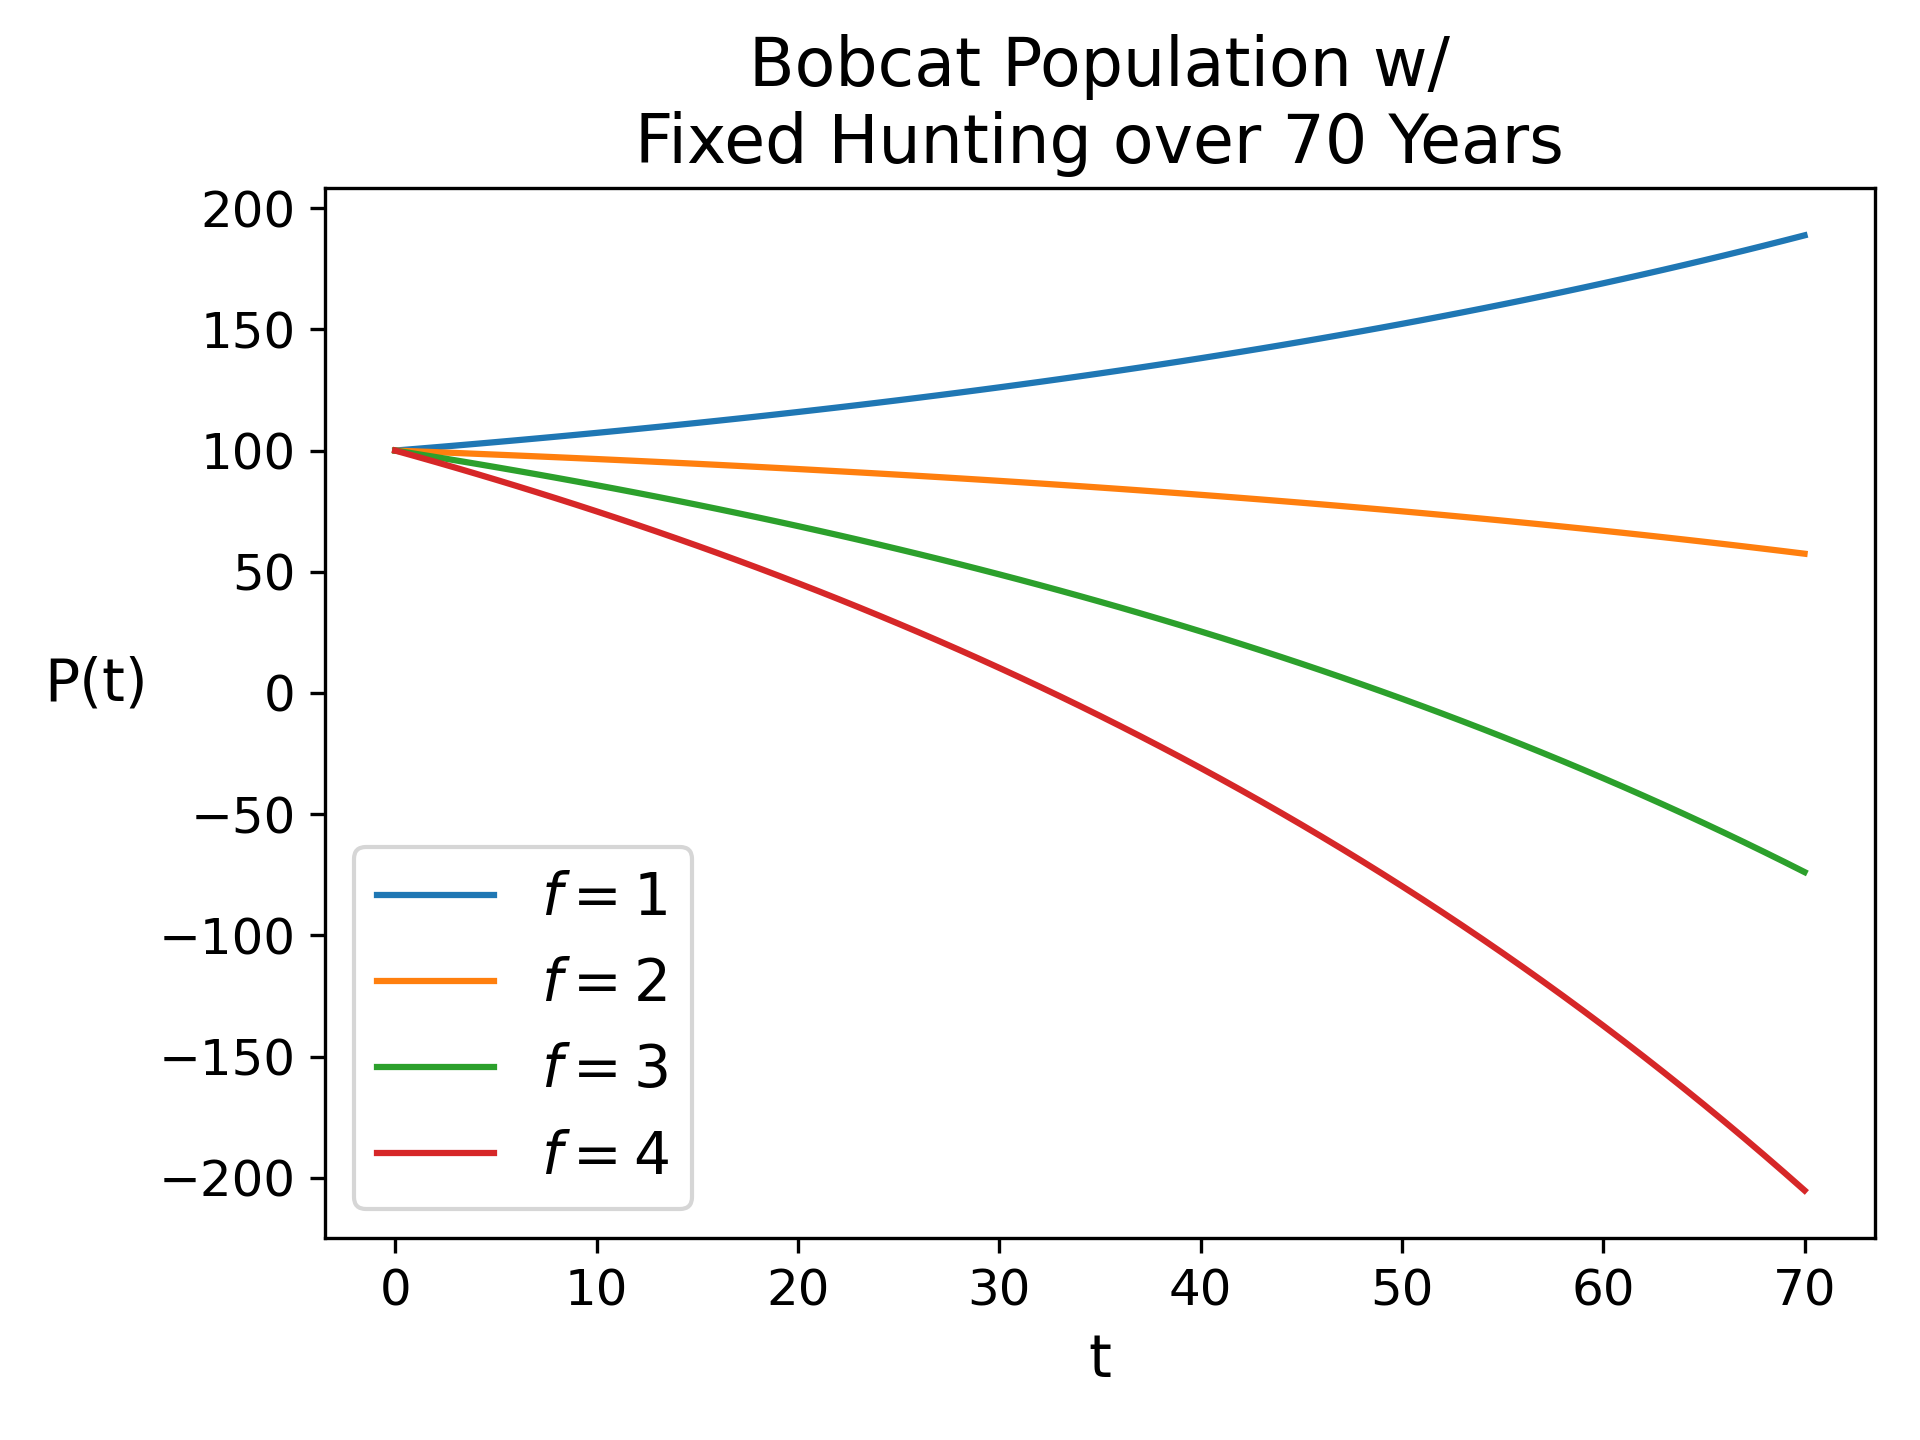
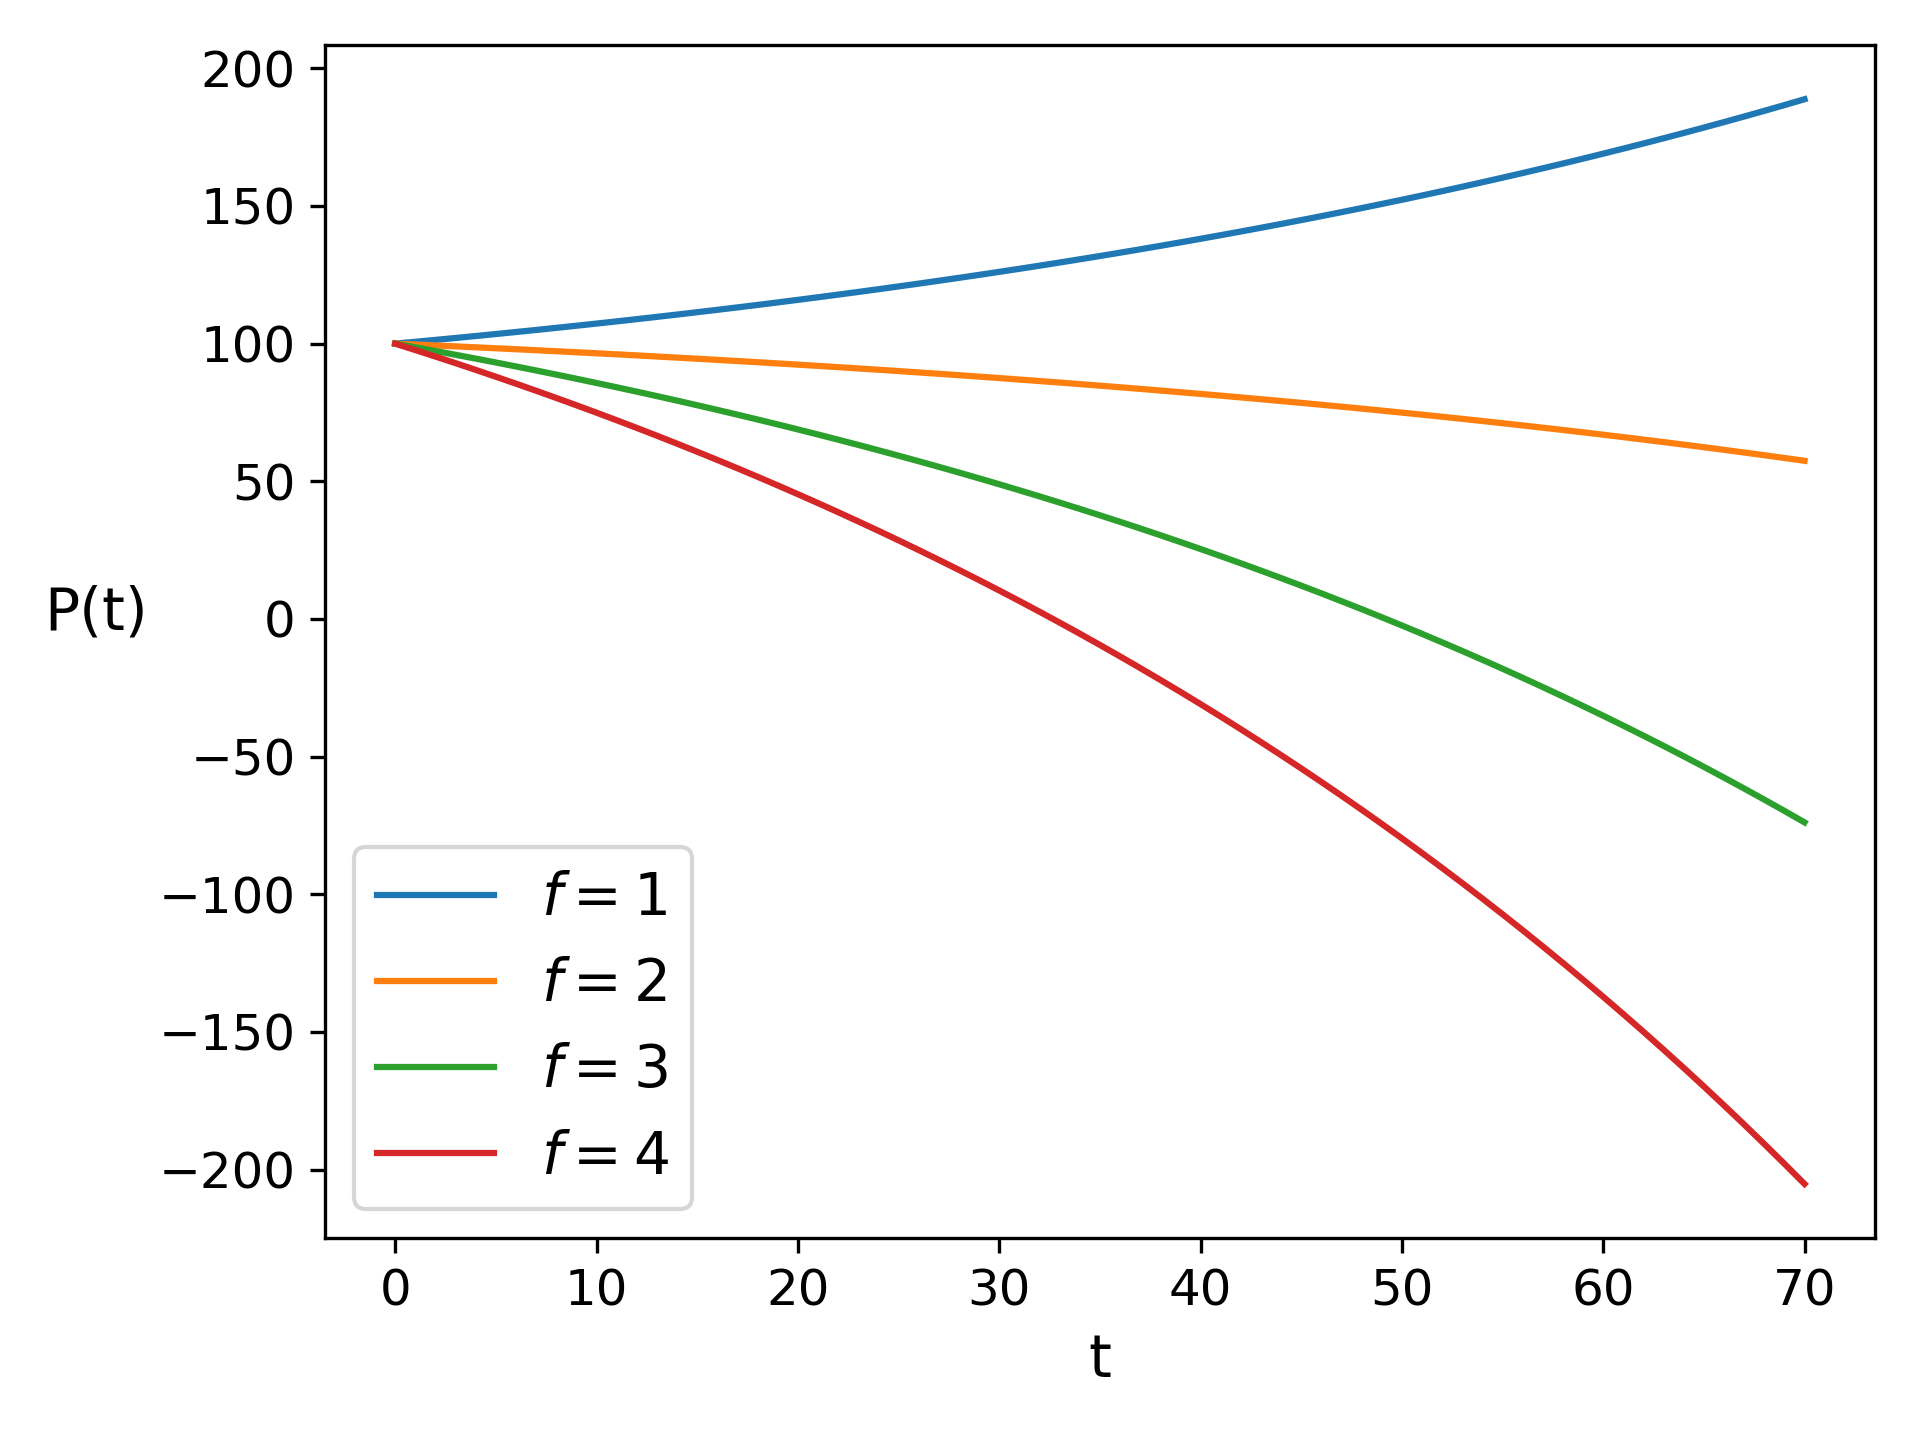
removed redundent titling

diff --git a/q2.py b/q2.py
@@ -29,10 +29,9 @@ for _ in range(LONG_TERM ):
         fa_pop[i].append(fa_pop[i][-1] * (r + 1) - fixed_amount[i])
         fp_pop[i].append(fp_pop[i][-1] * (r + 1 - fixed_percent[i]))
 
-def config_plt(title, xlbl, ylbl):
-    plt.title(title, fontsize=16)
-    plt.xlabel(xlbl, fontsize=14)
-    plt.ylabel(ylbl, fontsize=14, rotation='horizontal', labelpad=15)
+def config_plt():
+    plt.xlabel("t", fontsize=14)
+    plt.ylabel("P(t)", fontsize=14, rotation='horizontal', labelpad=15)
     plt.legend(fontsize=14)
     plt.xticks(fontsize=12)
     plt.yticks(fontsize=12)
@@ -42,14 +41,14 @@ def config_plt(title, xlbl, ylbl):
 t = np.arange(SHORT_TERM + 1)
 for i, pop in enumerate(fa_pop):
     plt.plot(t, pop[:SHORT_TERM + 1], label = f"$f = {fixed_amount[i]}$")
-config_plt("Bobcat Population w/\nFixed Hunting over 30 Years", "t", "P(t)")
+config_plt()
 plt.savefig('./hunting/fixed_short_term.png', dpi=300)
 plt.close()
 
 t = np.arange(LONG_TERM + 1)
 for i, pop in enumerate(fa_pop):
     plt.plot(t, pop, label = f"$f = {fixed_amount[i]}$")
-config_plt("Bobcat Population w/\nFixed Hunting over 70 Years", "t", "P(t)")
+config_plt()
 plt.savefig('./hunting/fixed_long_term.png', dpi=300)
 plt.close()
 
@@ -57,13 +56,13 @@ plt.close()
 t = np.arange(SHORT_TERM + 1)
 for i, pop in enumerate(fp_pop):
     plt.plot(t, pop[:SHORT_TERM + 1], label = f"$f = {fixed_percent[i]}$")
-config_plt("Bobcat Population w/\nPercentage Hunting over 30 Years", "t", "P(t)")
+config_plt()
 plt.savefig('./hunting/percentage_short_term.png', dpi=300)
 plt.close()
 
 t = np.arange(LONG_TERM + 1)
 for i, pop in enumerate(fp_pop):
     plt.plot(t, pop, label = f"$f = {fixed_percent[i]}$")
-config_plt("Bobcat Population w/\nPercentage Hunting over 70 Years", "t", "P(t)")
+config_plt()
 plt.savefig('./hunting/percentage_long_term.png')
 plt.close()

diff --git a/q1.py b/q1.py
@@ -20,10 +20,9 @@ for _ in range(LONG_TERM ):
     for i in range(3):
         p[i].append(p[i][-1] * (r[i] + 1))
 
-def config_plt(title, xlbl, ylbl):
-    plt.title(title, fontsize=16)
-    plt.xlabel(xlbl, fontsize=14)
-    plt.ylabel(ylbl, fontsize=14, rotation='horizontal', labelpad=15)
+def config_plt():
+    plt.xlabel("t", fontsize=14)
+    plt.ylabel("P(t)", fontsize=14, rotation='horizontal', labelpad=15)
     plt.legend(fontsize=14)
     plt.xticks(fontsize=12)
     plt.yticks(fontsize=12)
@@ -33,7 +32,7 @@ def config_plt(title, xlbl, ylbl):
 t = np.arange(SHORT_TERM + 1)
 for i, pop in enumerate(p):
     plt.plot(t, pop[:SHORT_TERM + 1], label = f"$r = {r[i]}$")
-config_plt("Bobcat Population over 30 Years", "t", "P(t)")
+config_plt()
 plt.savefig('./basic/short_term.png', dpi=300)
 plt.close()
 
@@ -41,6 +40,6 @@ plt.close()
 t = np.arange(LONG_TERM + 1)
 for i, pop in enumerate(p):
     plt.plot(t, pop, label = f"$r = {r[i]}$")
-config_plt("Bobcat Population over 70 Years", "t", "P(t)")
+config_plt()
 plt.savefig('./basic/long_term.png', dpi=300)
 plt.close()
